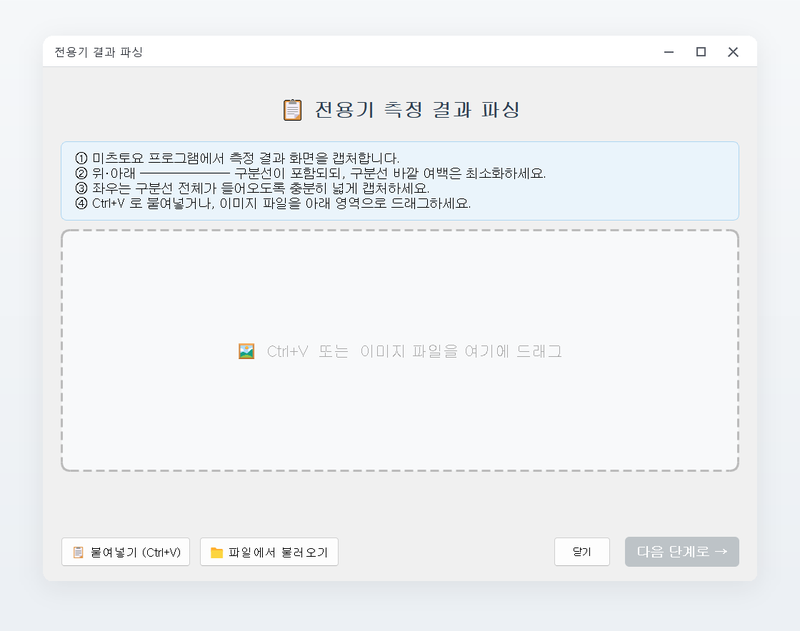
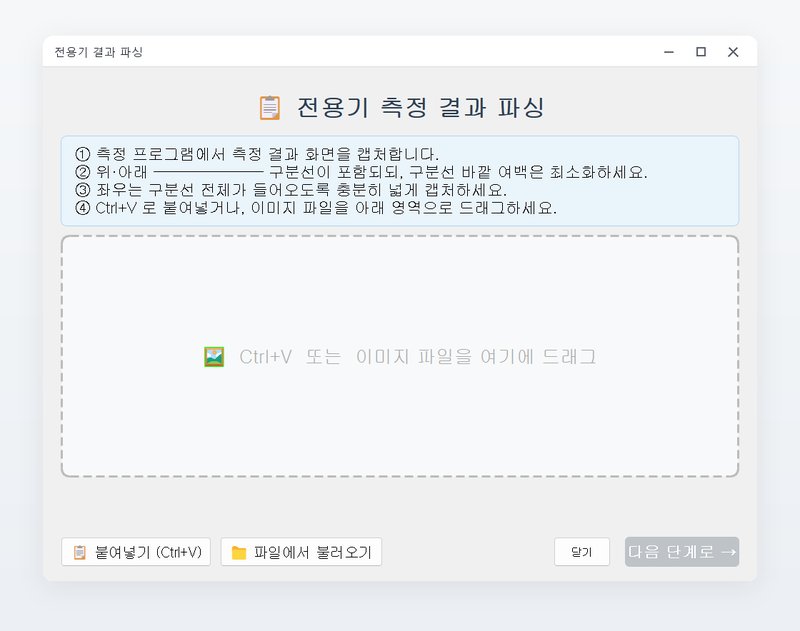
README 표현 정리, OCR 화면 캡처 교체

diff --git a/README.md b/README.md
@@ -2,7 +2,7 @@
 
 # 📐 측정 데이터 자동화 (PDF · OCR)
 
-**3차원 측정기(CMM) 결과 PDF가 저장되는 순간, 파일 정리 · 치수 추출 · 엑셀 입력 · 보고 문구까지 자동으로 처리하는 Windows 데스크톱 프로그램**
+**측정 결과 PDF가 저장되는 순간, 파일 정리 · 치수 추출 · 엑셀 입력 · 보고 문구까지 자동으로 처리하는 Windows 데스크톱 프로그램**
 
 <br />
 
